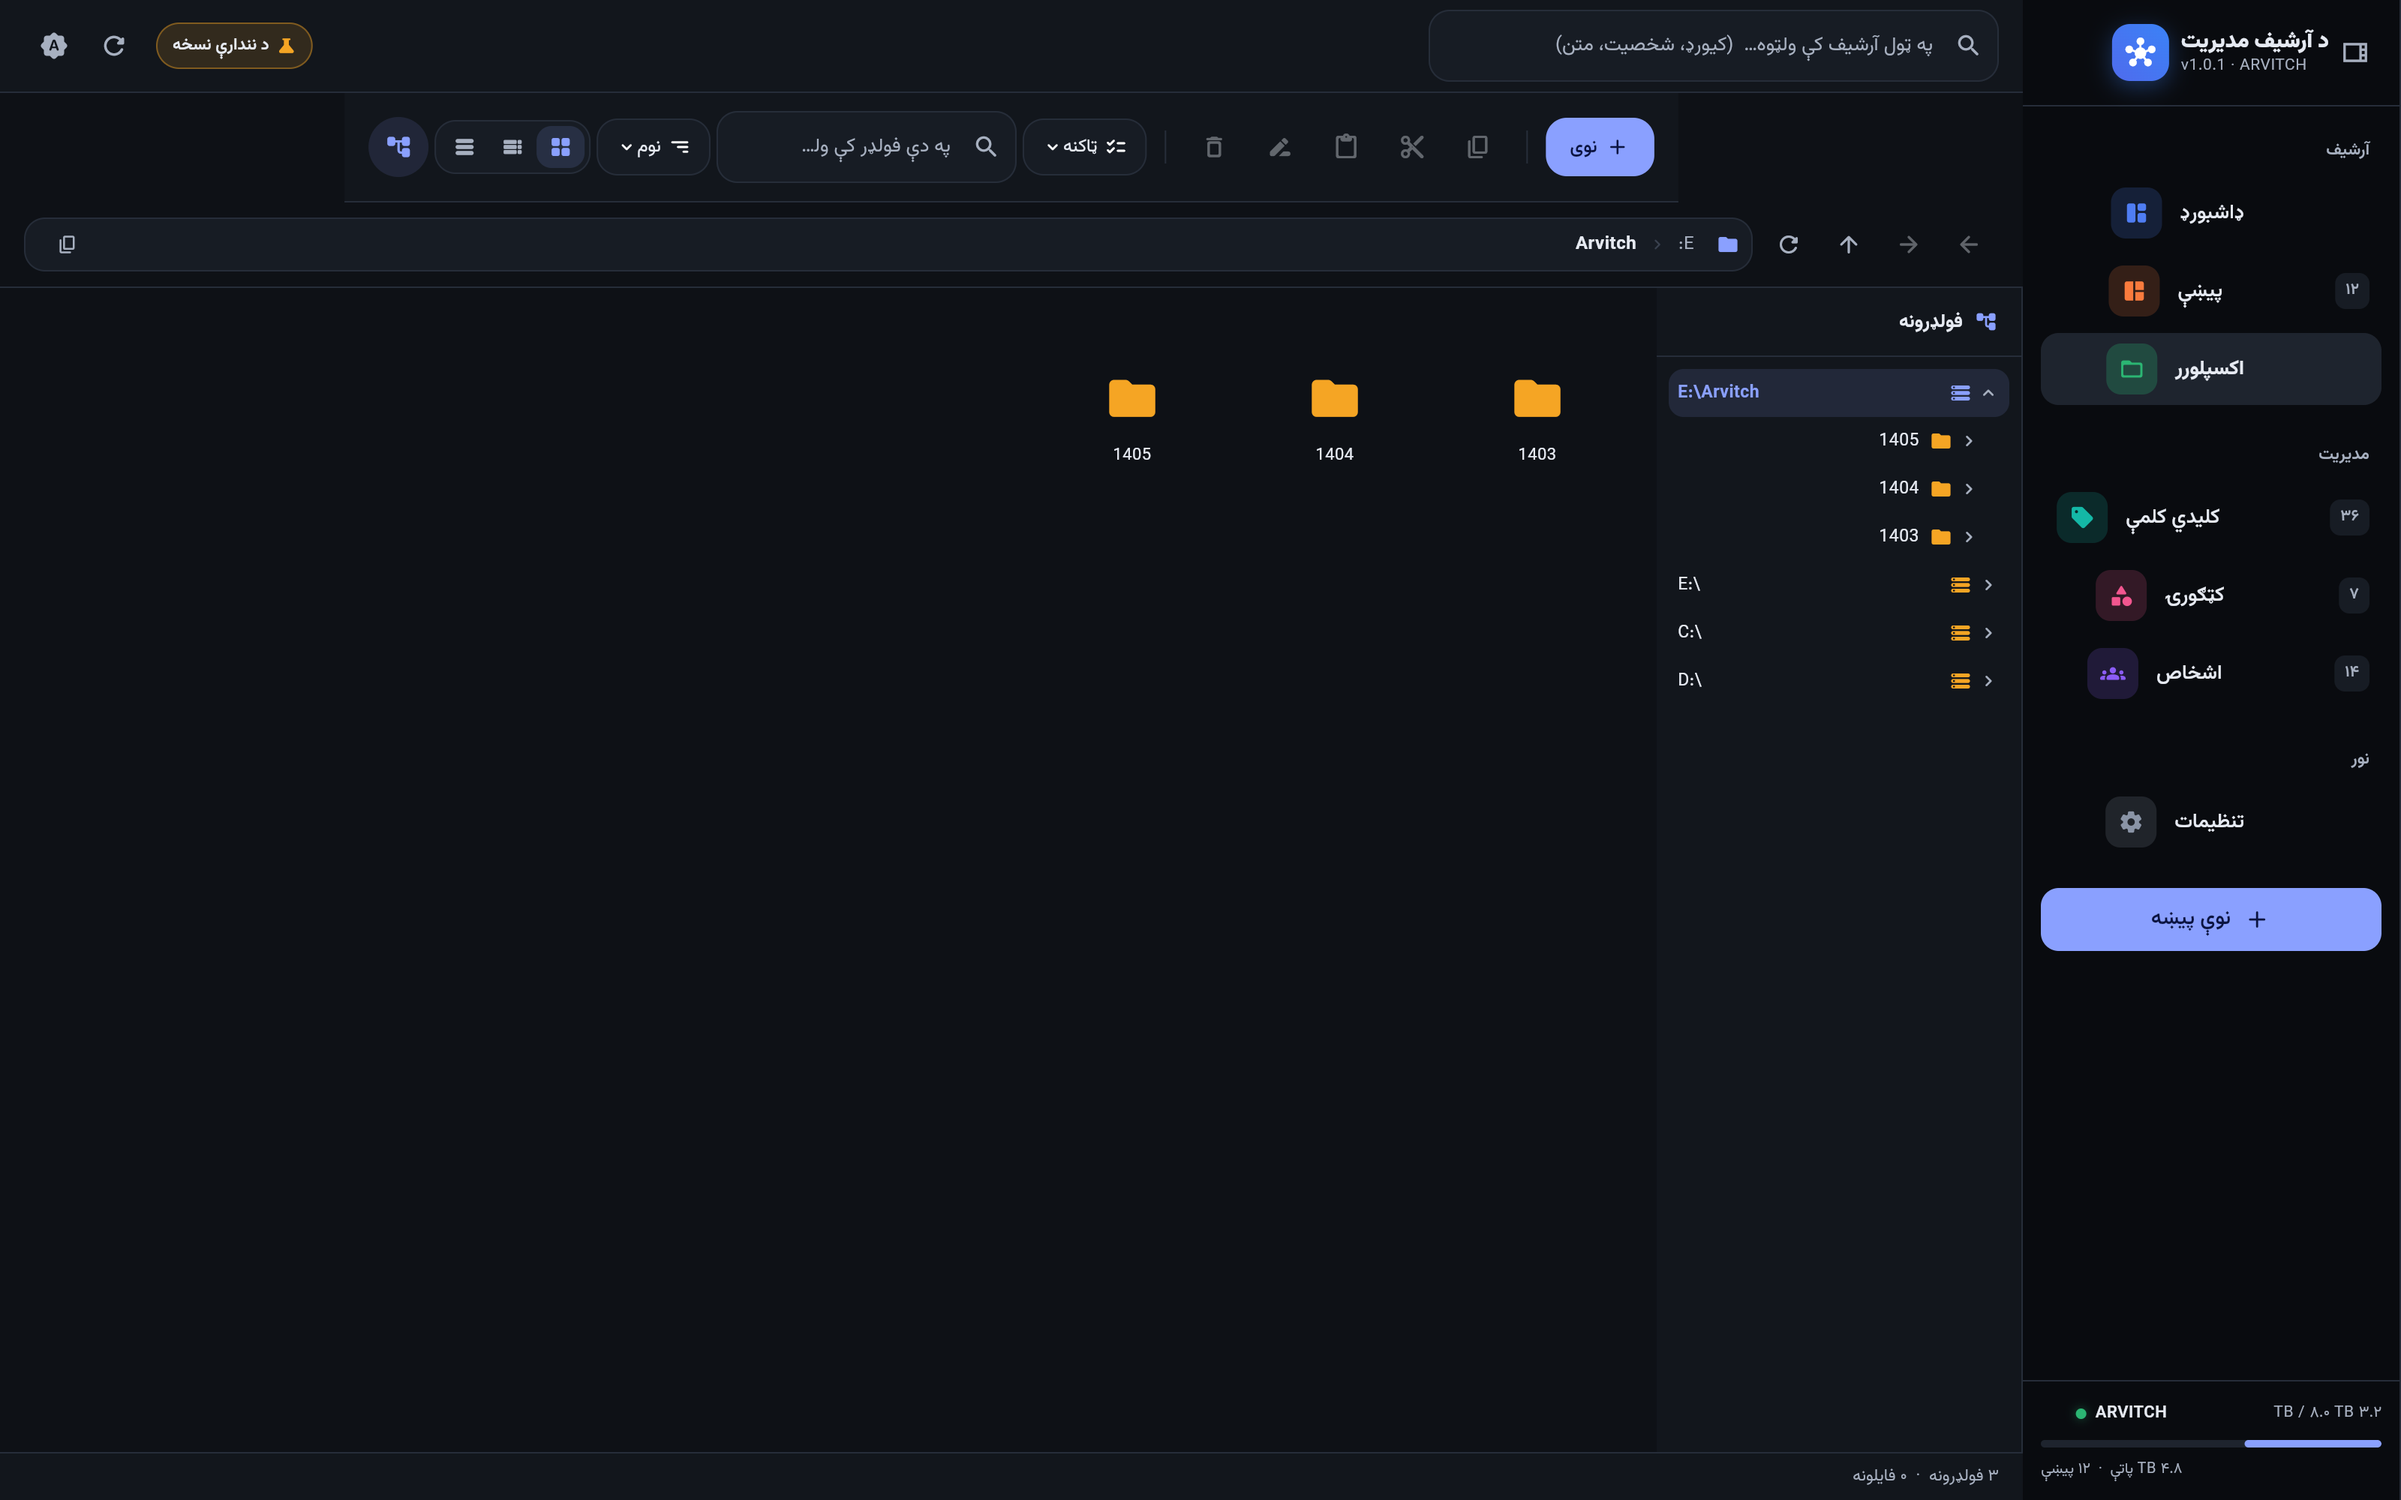
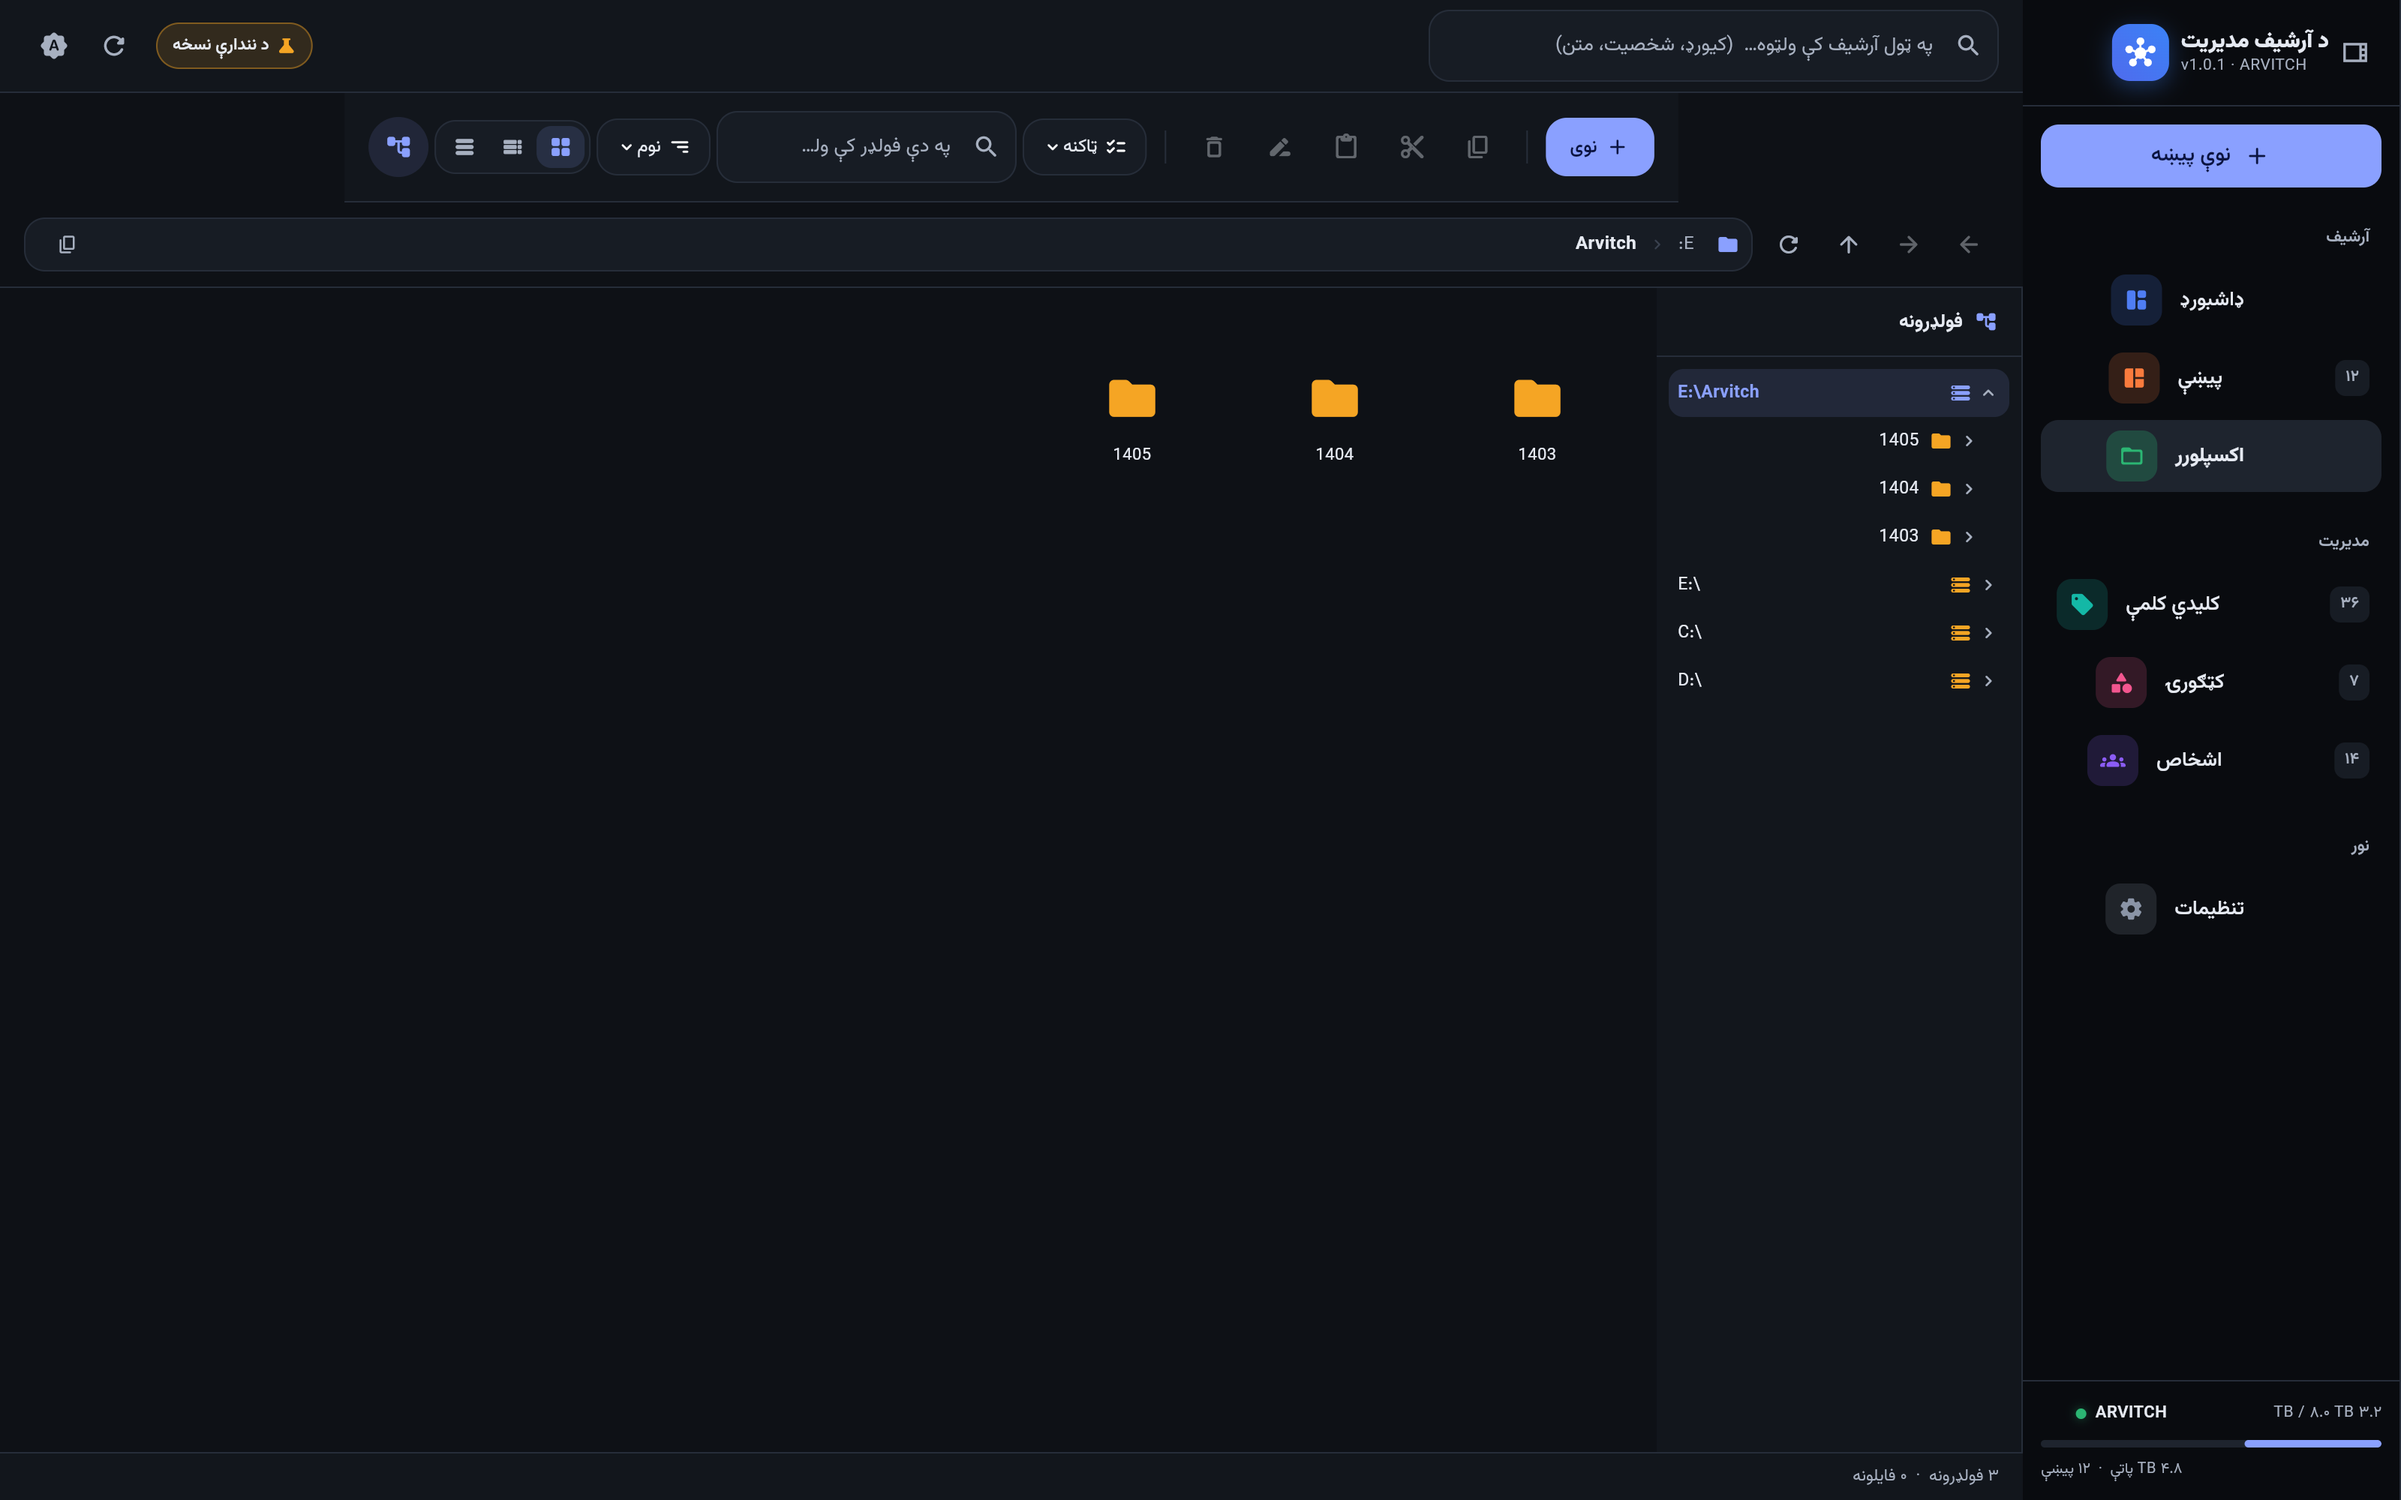
د کوچنیو سکرینونو سکرینشاټونه او تازه انځورونه
Claude-Session: https://claude.ai/code/session_01F9ry3M16LeqHXsec2MQHbu

Changed region(s): [[0.8438, 0.062, 1.0, 0.651]]

diff --git a/README.md b/README.md
@@ -25,6 +25,13 @@
 |---|---|
 | ![اکسپلورر](docs/screenshots/03-explorer.png) | ![تیاره](docs/screenshots/01-dashboard-dark.png) |
 
+**په کوچنیو سکرینونو کې** — سایډبار پخپله راټولیږي، فلټر پینل تڼۍ ته
+اوړي، وسیلې ښکته کرښې ته ځي. هیڅ برخه بهر نه لویږي:
+
+| ۱۰۲۴×۶۴۰ | ۹۰۰×۶۰۰ |
+|---|---|
+| ![کوچنی](docs/screenshots/20-small-1024-dashboard.png) | ![ډېر کوچنی](docs/screenshots/21-small-900-events.png) |
+
 **جوړه شوې `index.html` پاڼه** (په براوزر کې، پرته له انټرنیټه):
 
 | سپین | تیاره |
